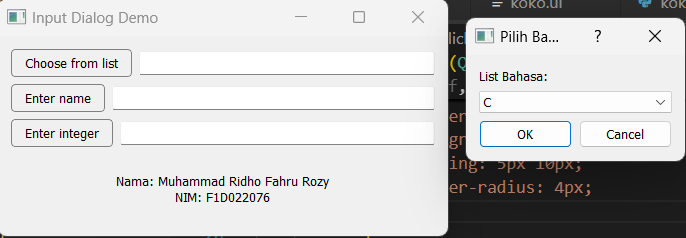
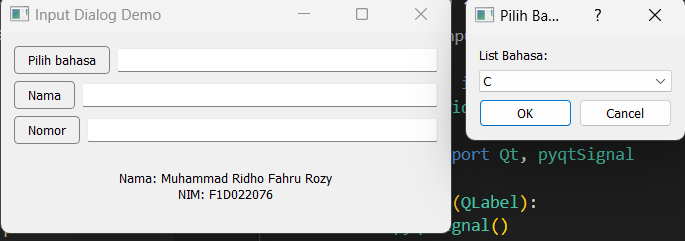
minggu9

diff --git a/Week9.py b/Week9.py
@@ -32,21 +32,21 @@ class InputDialogDemo(QWidget):
         main_layout = QVBoxLayout()
 
         row1 = QHBoxLayout()
-        self.label_list = ClickableLabel("Choose from list")
+        self.label_list = ClickableLabel("Pilih bahasa")
         self.line_list = QLineEdit()
         self.line_list.setReadOnly(True)
         row1.addWidget(self.label_list)
         row1.addWidget(self.line_list)
 
         row2 = QHBoxLayout()
-        self.label_name = ClickableLabel("Enter name")
+        self.label_name = ClickableLabel("Nama")
         self.line_name = QLineEdit()
         self.line_name.setReadOnly(True)
         row2.addWidget(self.label_name)
         row2.addWidget(self.line_name)
 
         row3 = QHBoxLayout()
-        self.label_int = ClickableLabel("Enter integer")
+        self.label_int = ClickableLabel("Nomor")
         self.line_int = QLineEdit()
         self.line_int.setReadOnly(True)
         row3.addWidget(self.label_int)
